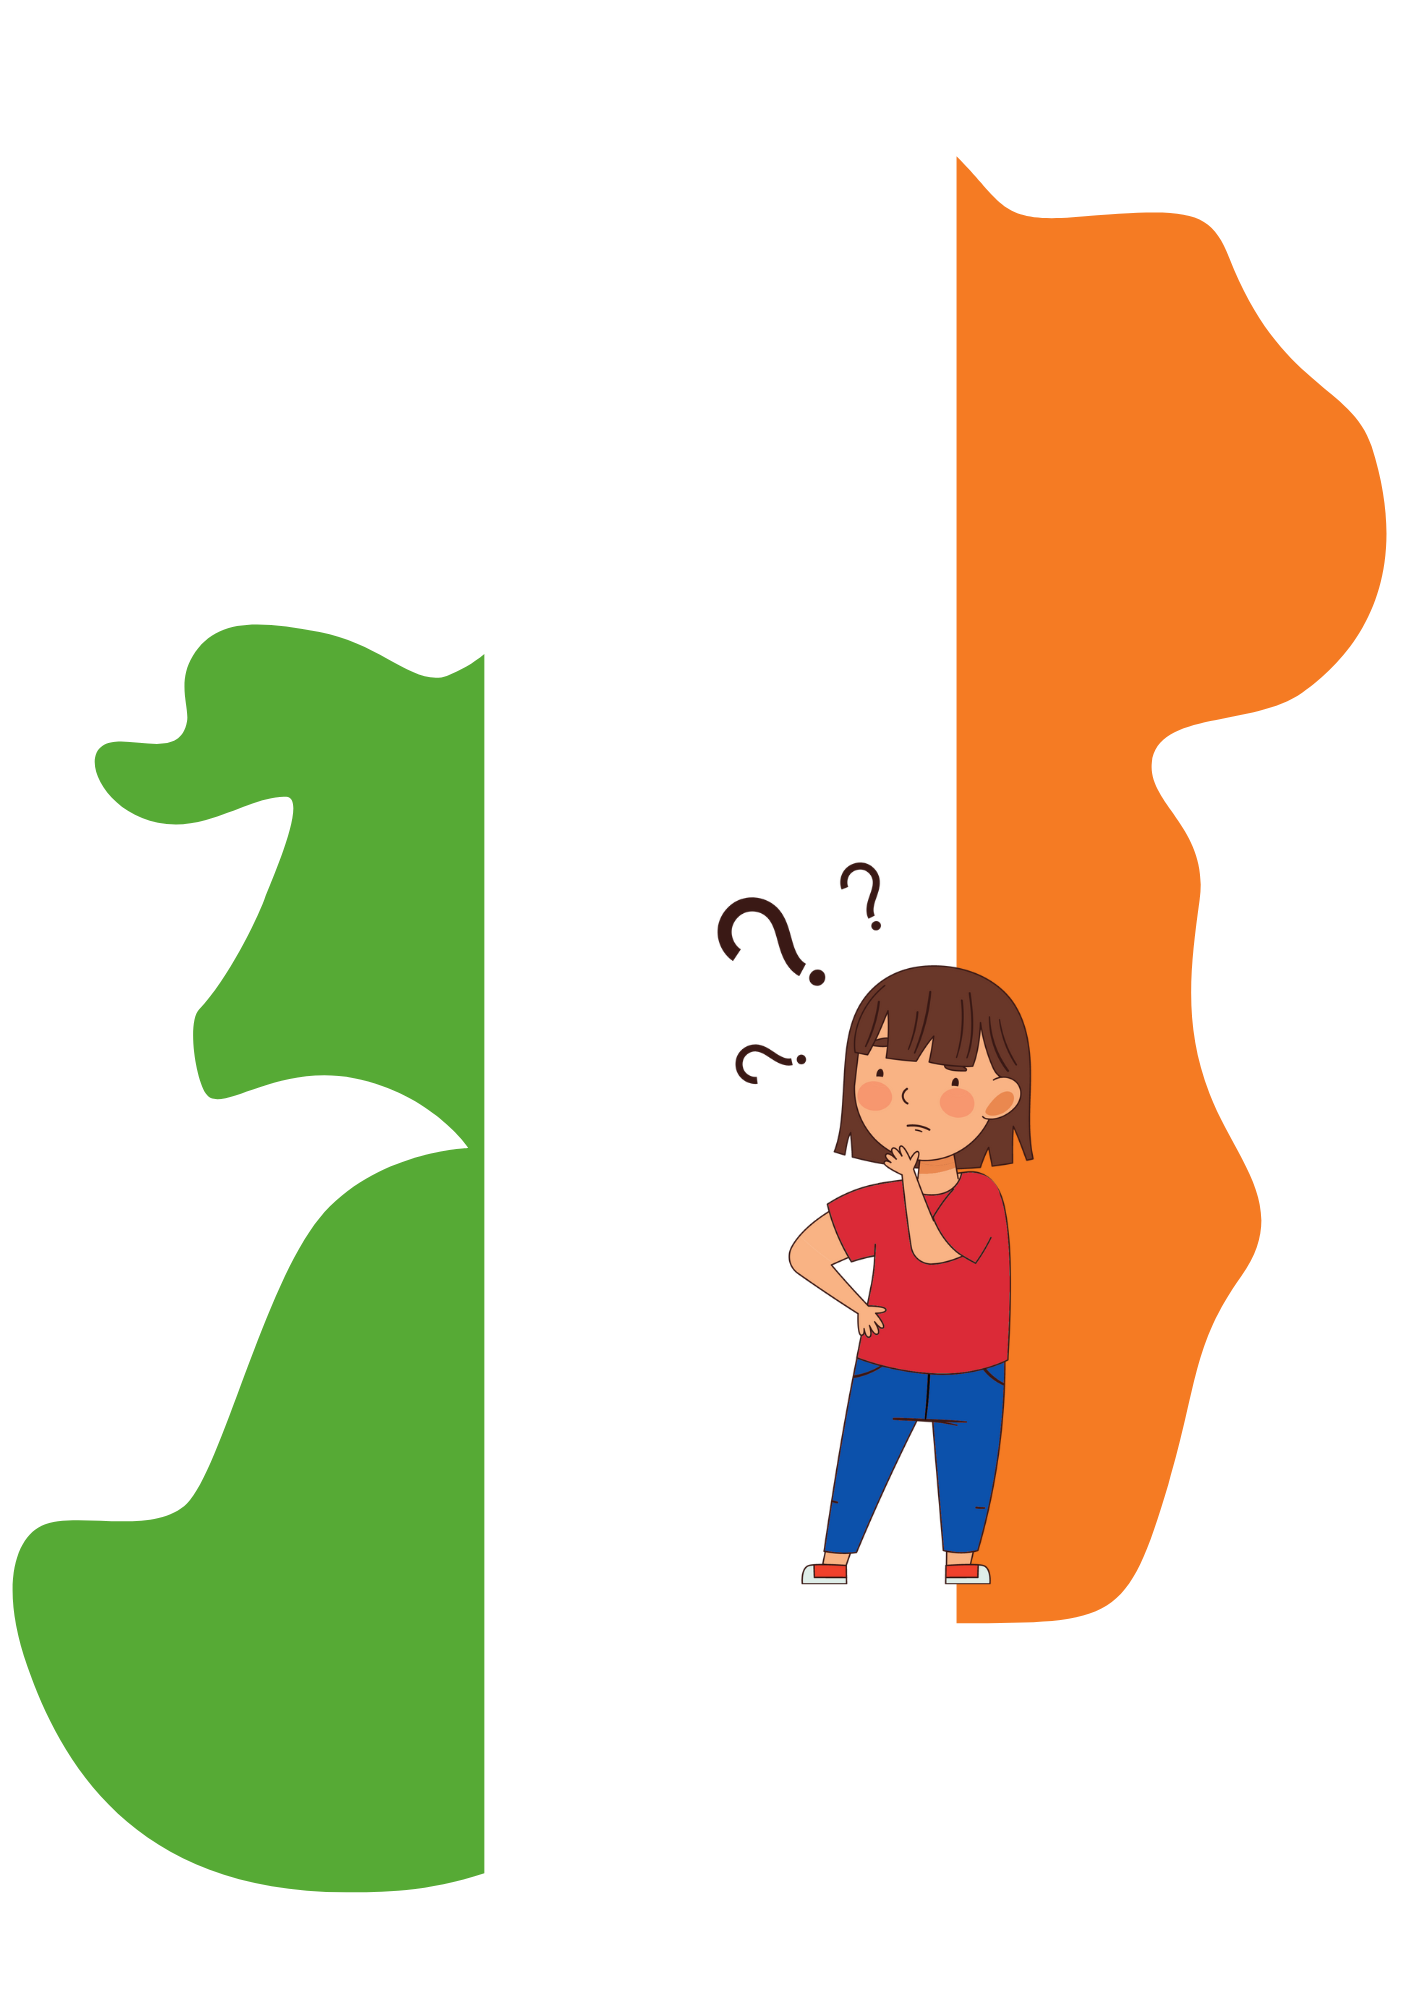
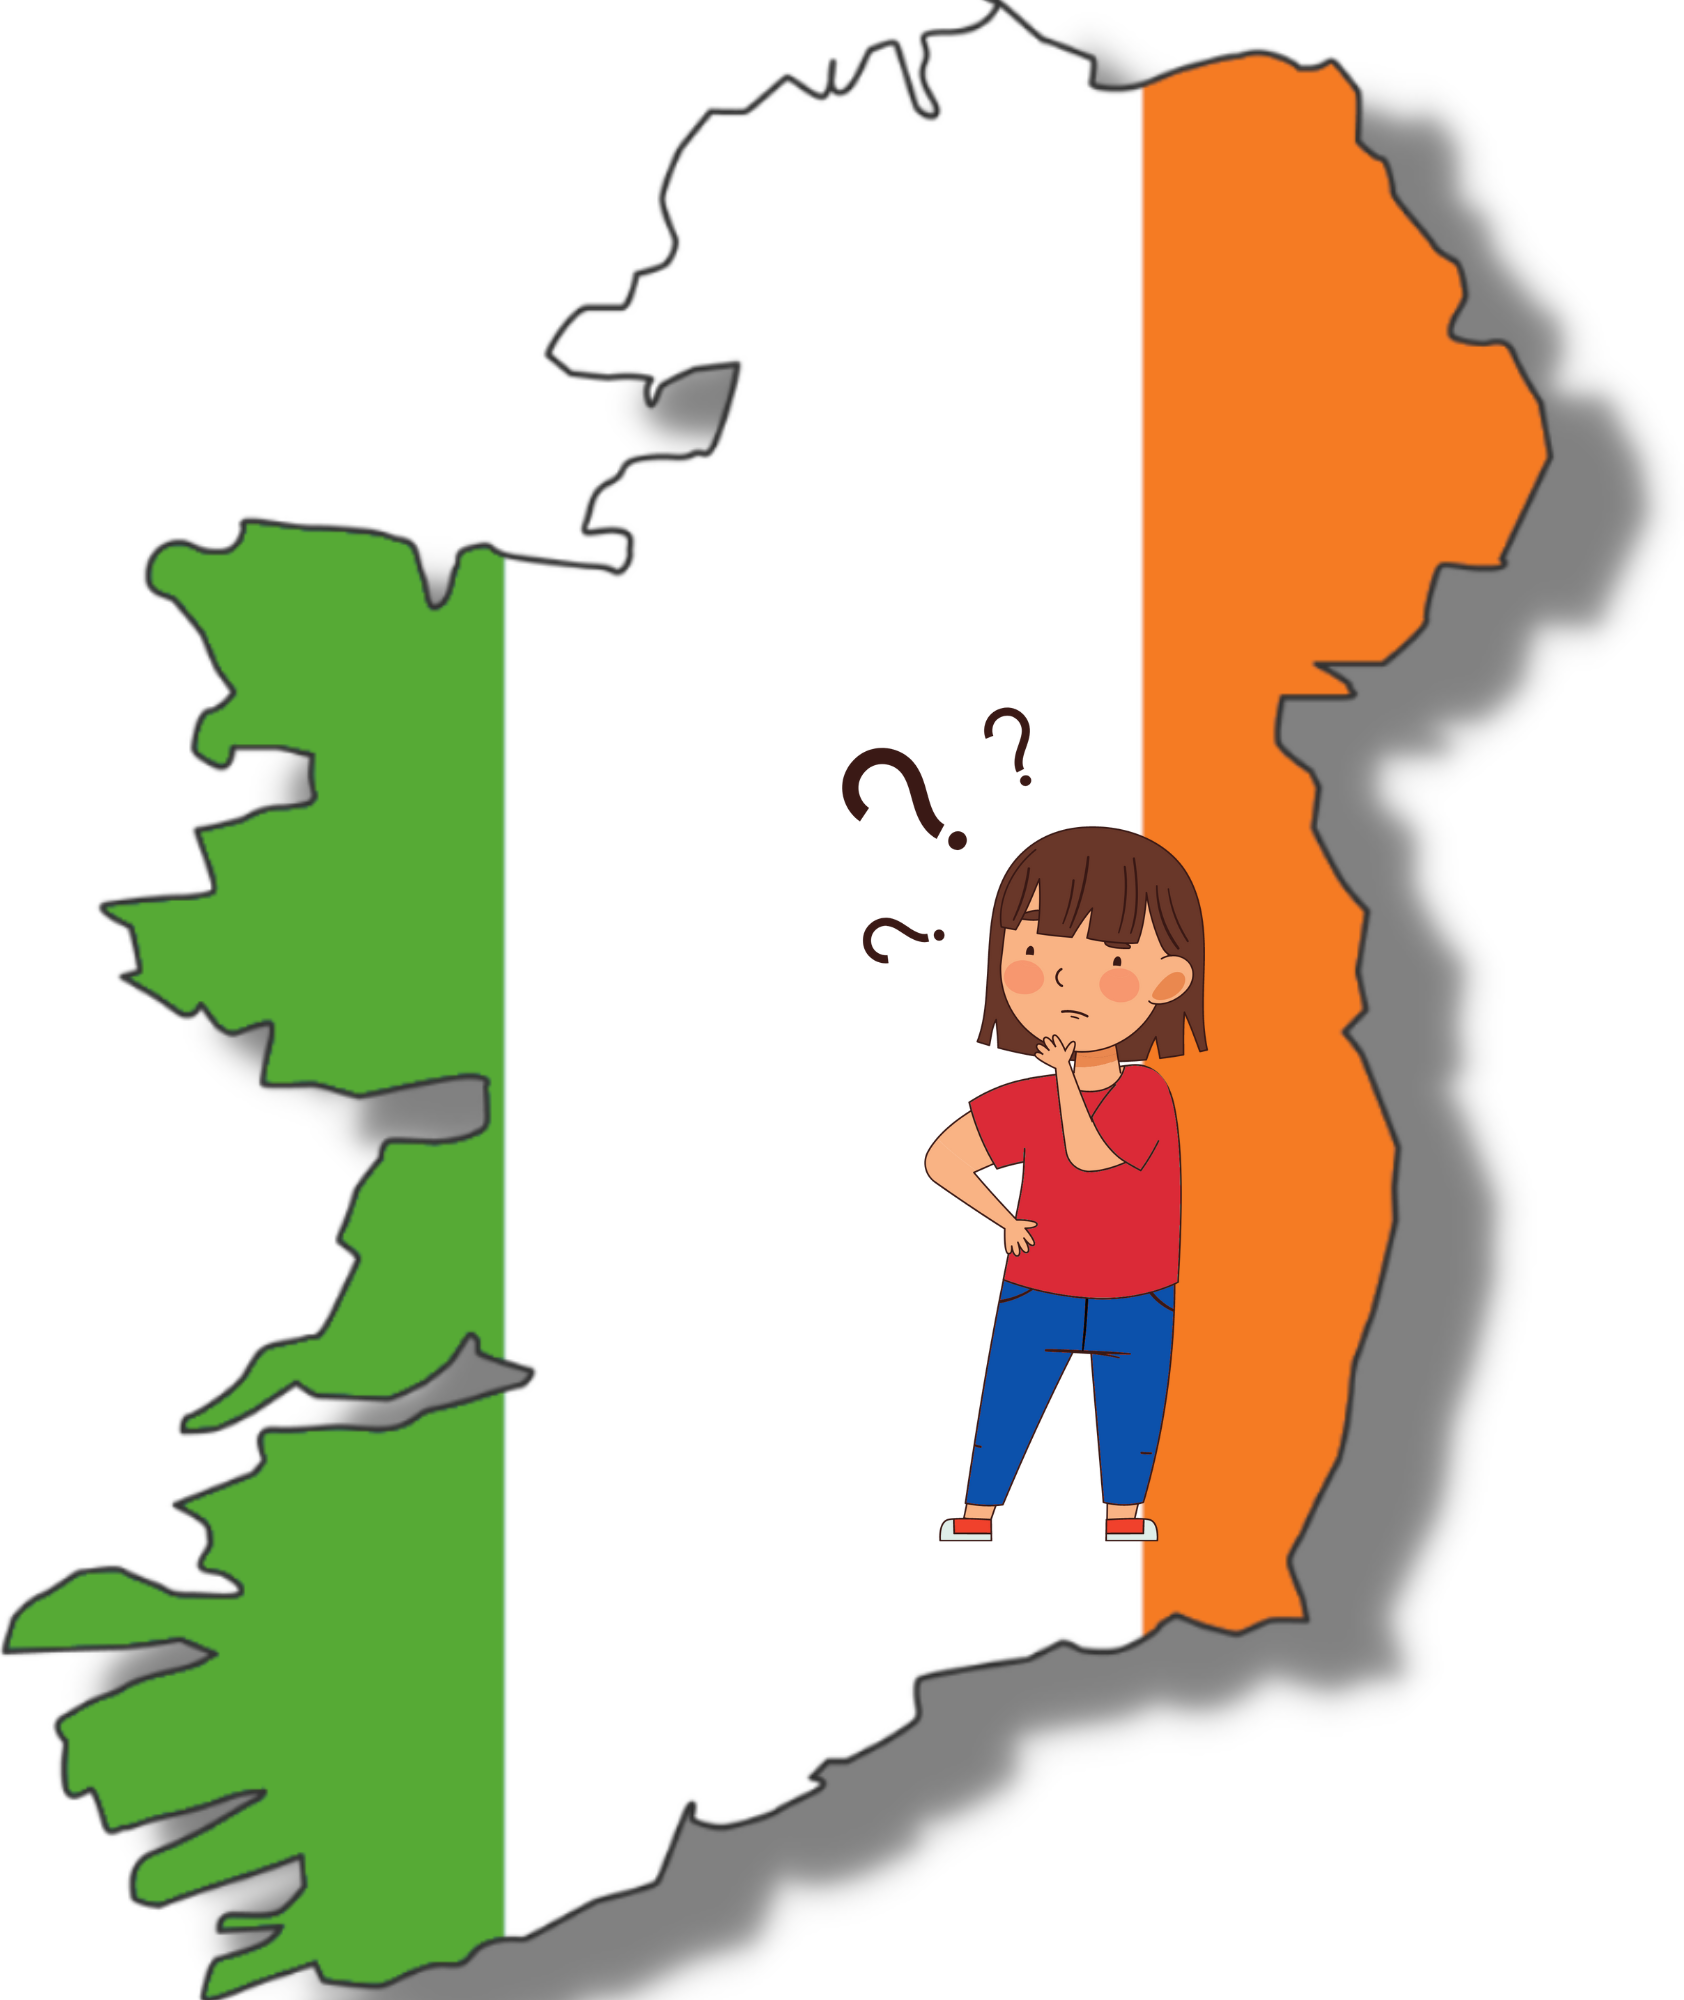
mod: Change hero image

Changed region(s): [[0.0, 0.0, 0.9958, 1.0], [0.3423, 0.062, 0.4045, 0.155], [0.3112, 0.155, 0.3423, 0.186]]

diff --git a/templates/home/index.html b/templates/home/index.html
@@ -17,7 +17,7 @@
                 {% endif %}
             </div>
             <div class="hero-image-container col-12 col-lg-5 d-flex align-items-lg-center justify-content-center">
-                <img class="hero-image" src="https://res.cloudinary.com/sejung-cloud/image/upload/v1666631940/static/img/home/hero-image_lqhtua.png" alt="A girl with three question marks on Ireland">
+                <img class="hero-image" src="https://res.cloudinary.com/sejung-cloud/image/upload/v1666815801/static/img/home/hero-image_gcelyr.png" alt="A girl with three question marks on Ireland">
             </div>
         </div>
     </section>
